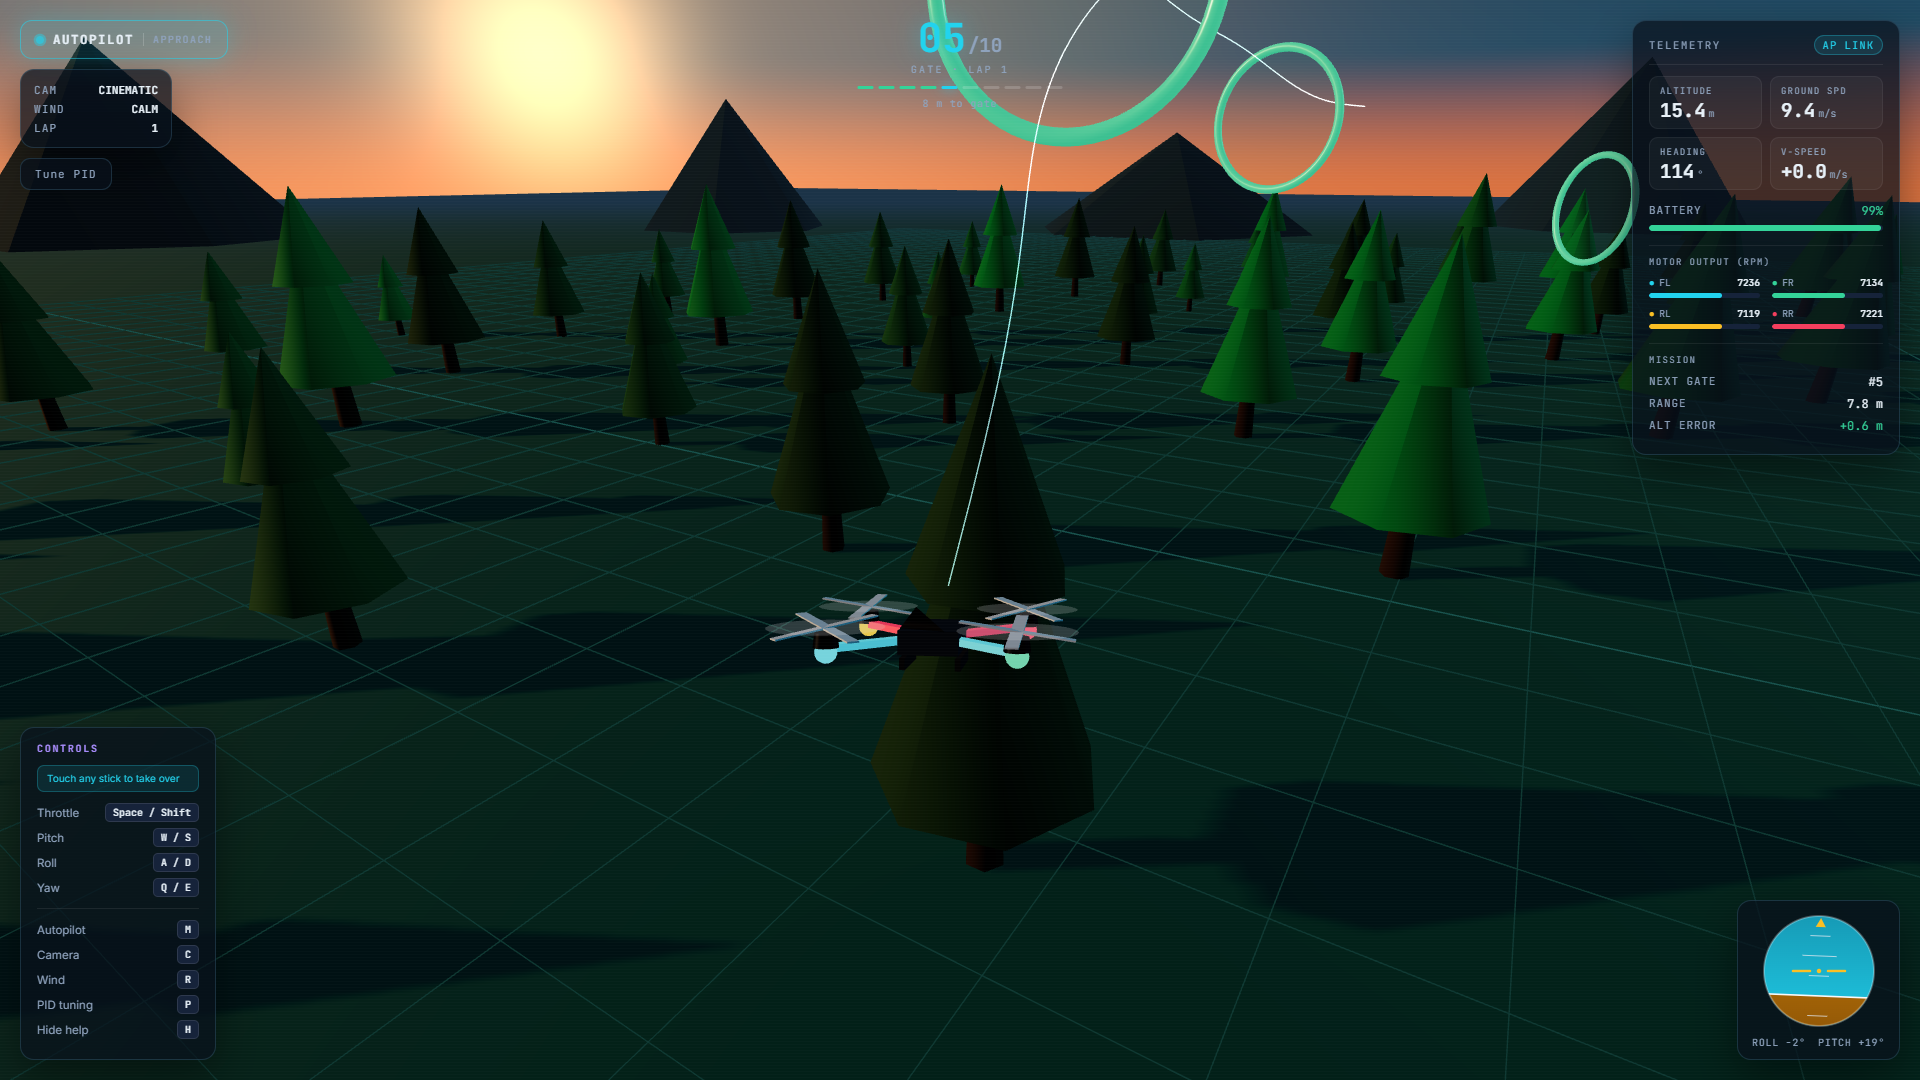
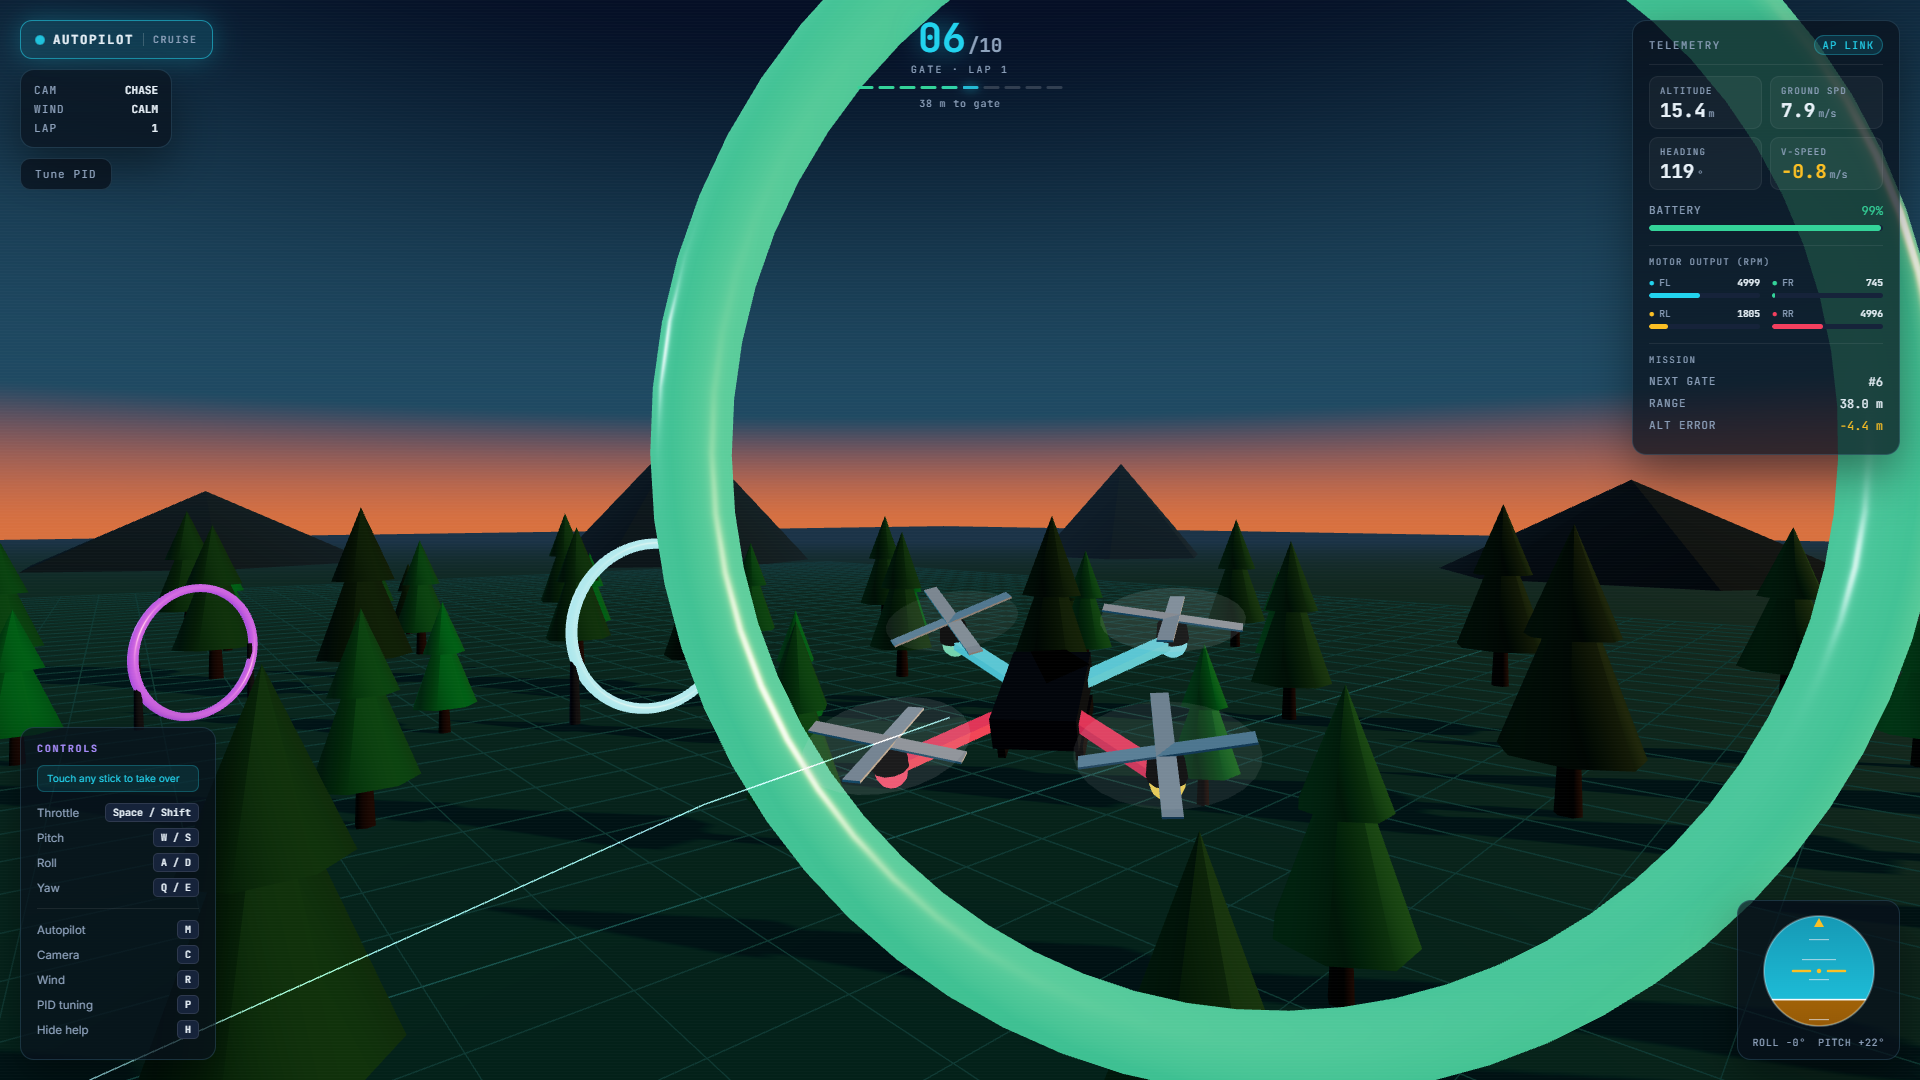
fix(simulator): pull the cameras in so the drone is actually visible
The chase camera specified a 2 m offset but the follow was damped softly
enough that at 10 m/s it settled about 5 m behind the airframe. Against a
0.7 m drone that put the aircraft at under 6% of the frame, so the view you
fly in barely showed your own drone.

Tightens the chase offset to ~1.1 m and the cinematic orbit to 2.1 m, and
stiffens the follow so the camera holds the offset it is given instead of
trailing metres behind it. Screenshots retaken against the new framing.

Claude-Session: https://claude.ai/code/session_01BnHDzC8YyHGcQuAz31Gwe2

diff --git a/simulator/src/components/CameraController.tsx b/simulator/src/components/CameraController.tsx
@@ -48,13 +48,14 @@ export const CameraController: React.FC<Props> = ({ posRef, rotRef, mode }) => {
     // FPV is rigidly mounted to the airframe; every other view is on a soft
     // gimbal, damped frame-rate independently so it behaves the same at 30 and
     // 144 fps.
-    // The cinematic view gets its smoothness from the slow orbit, not from a
-    // slack follow. Damping its position heavily just lets a 10 m/s drone
-    // outrun the camera until it is a speck at the edge of frame.
-    const positionResponse = mode === 'fpv' ? 40 : 9;
+    // Follow stiffly. A soft follow looks good on paper but at 10 m/s it leaves
+    // the camera metres behind where the offset says it should be, which is how
+    // the chase view ended up sitting 5 m back from a 0.66 m airframe. The
+    // cinematic view gets its smoothness from the slow orbit instead.
+    const positionResponse = mode === 'fpv' ? 40 : 18;
 
     // Aim faster still, so the subject stays centred through direction changes.
-    const aimResponse = mode === 'fpv' ? 40 : 20;
+    const aimResponse = mode === 'fpv' ? 40 : 26;
 
     camera.position.lerp(desired.current, 1 - Math.exp(-positionResponse * delta));
     smoothedTarget.current.lerp(lookAt.current, 1 - Math.exp(-aimResponse * delta));

diff --git a/simulator/src/utils/constants.ts b/simulator/src/utils/constants.ts
@@ -89,20 +89,24 @@ export const CHECKPOINTS: Vector3[] = [
 export const GATE_RADIUS = 3.5;
 
 /**
- * The airframe is only ~0.45 m across, so the chase camera has to sit close for
- * the drone to read as more than a speck against 5 m gates.
+ * Camera offsets from the airframe, in metres.
+ *
+ * The airframe is only ~0.7 m across and the world it flies through is hundreds
+ * of metres wide, so these have to be tight or the drone reads as a speck. At
+ * the 2 m the chase view used to sit at, once follow lag was added, it filled
+ * under 6% of the frame.
  */
 export const CAMERA_OFFSETS = {
-  // Deliberately off the centreline: a chase camera directly behind the drone
-  // hides its own motion trail behind the airframe.
-  chase: new Vector3(0.75, 0.6, 2.0),
+  // Slightly off the centreline: a camera directly behind the drone hides its
+  // own motion trail behind the airframe.
+  chase: new Vector3(0.4, 0.28, 1.05),
   fpv: new Vector3(0, 0.12, -0.22),
   topDown: new Vector3(0, 30, 0.01),
 };
 
 /** Slow orbit used by the cinematic camera. */
 export const CINEMATIC = {
-  radius: 3.3,
-  height: 1.1,
+  radius: 2.1,
+  height: 0.75,
   orbitSpeed: 0.22, // rad/s
 };
